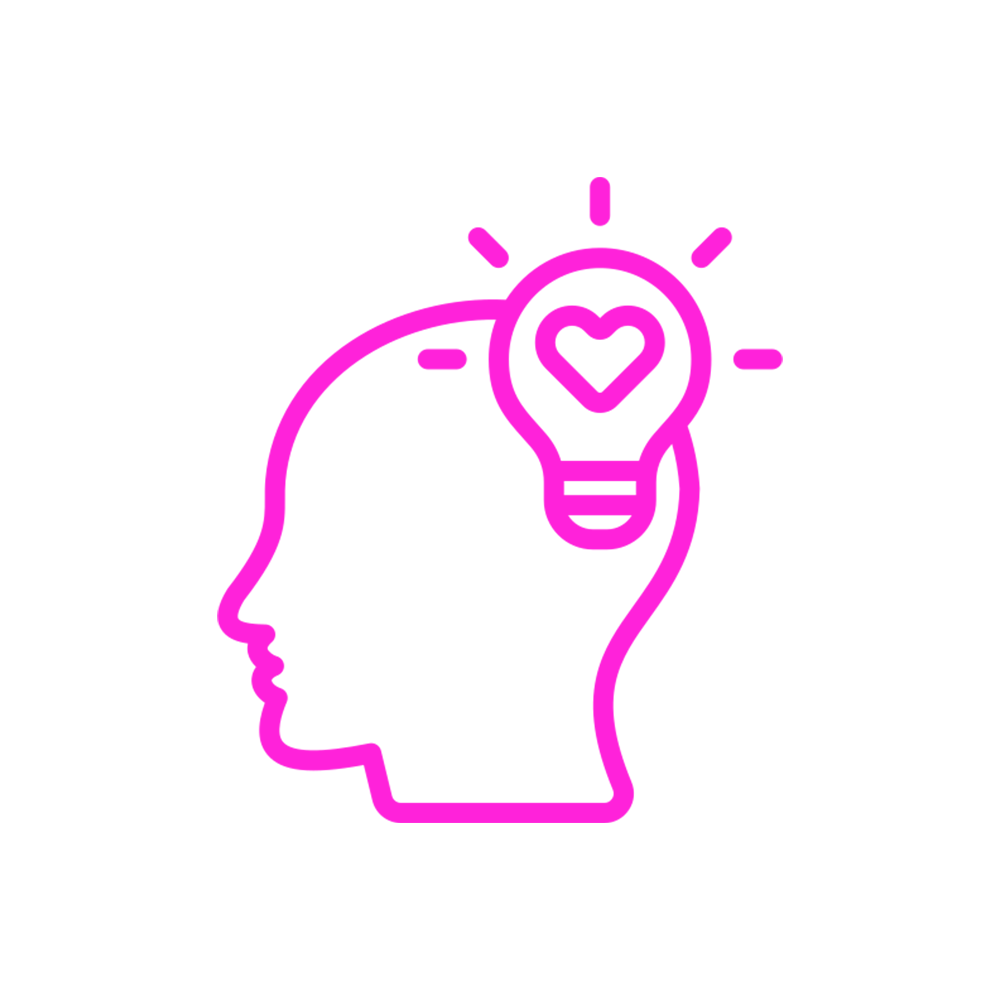
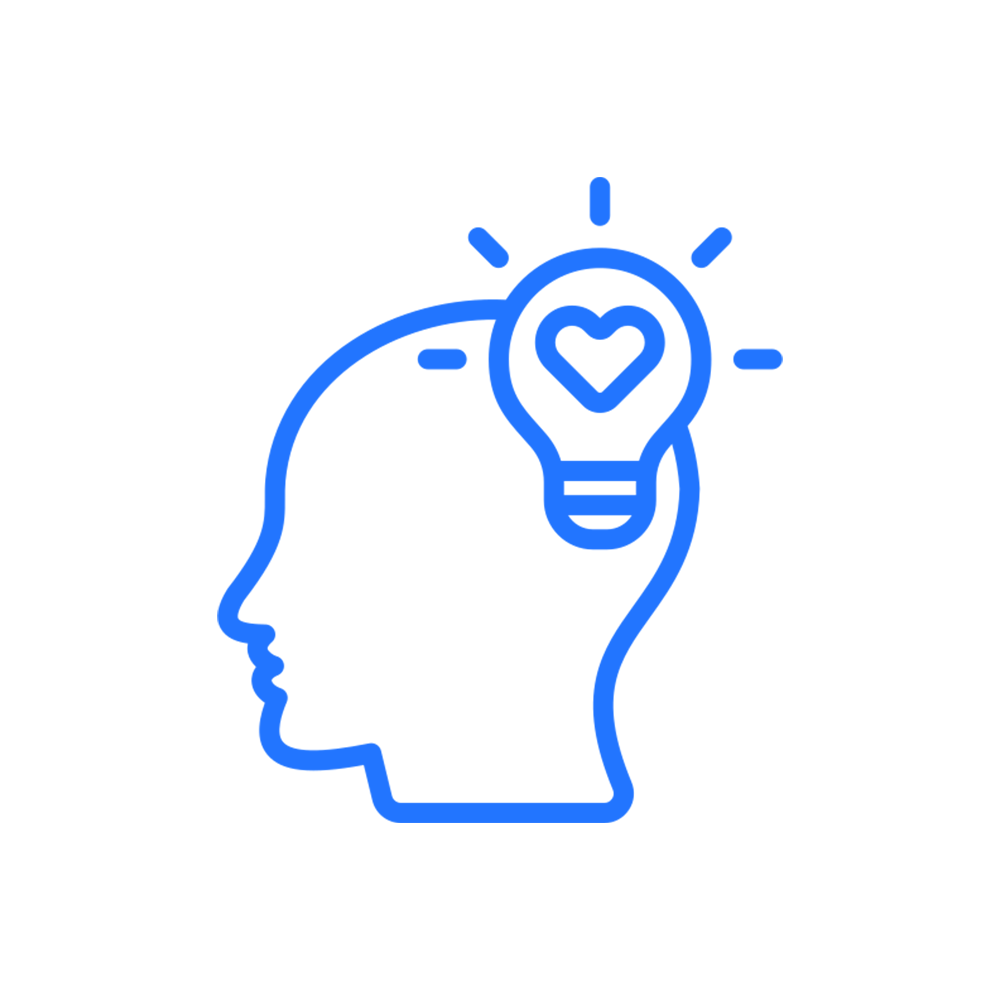
Switch pink for blue on white mode

Changed region(s): [[0.217, 0.155, 0.806, 0.837]]

diff --git a/src/components/AboutMe.vue b/src/components/AboutMe.vue
@@ -92,8 +92,8 @@ export default {
   data() {
     return {
       softSkills: false,
-      rosa: 'rgb(255, 34, 218)',
-      rosaEscuro: 'rgb(255, 34, 218, 0.5)',
+      branco: 'rgb(34, 133, 255)',
+      brancoEscuro: 'rgba(34, 133, 255, 0.5)',
       azul: 'rgba(47, 203, 205, 0.6)',
       azulEscuro: 'rgb(47, 203, 205, 0.3)',
       barra: 0,
@@ -118,8 +118,8 @@ export default {
           {
             label: 'Skill level',
             data: [], // Níveis de habilidade
-            backgroundColor: this.isDarkMode ? this.azulEscuro : this.azul, // Cor das barras baseada no modo
-            borderColor: this.isDarkMode ? this.azul : this.azul,
+            backgroundColor: this.isDarkMode ? this.azulEscuro : this.brancoEscuro, // Cor das barras baseada no modo
+            borderColor: this.isDarkMode ? this.azul : this.branco,
             borderWidth: 1,
             barThickness: 38, // Aumenta a espessura das barras
             categoryPercentage: 1, // Aumenta o espaçamento entre as barras
@@ -156,8 +156,8 @@ export default {
   methods: {
     updateChartColors(isDarkMode) {
       // Atualiza as cores das barras dinamicamente
-      this.chartData.datasets[0].backgroundColor = isDarkMode ? this.azulEscuro : this.azul;
-      this.chartData.datasets[0].borderColor = isDarkMode ? this.azul : this.azul;
+      this.chartData.datasets[0].backgroundColor = isDarkMode ? this.azulEscuro : this.brancoEscuro;
+      this.chartData.datasets[0].borderColor = isDarkMode ? this.azul : this.branco;
       this.chartData.datasets[0].borderWidth = 2;
     }
   },
@@ -168,8 +168,8 @@ export default {
       datasets: [
         {
           label: 'Skill level',
-          backgroundColor: this.isDarkMode ? this.azulEscuro : this.azul, // Cor das barras baseada no modo
-          borderColor: this.isDarkMode ? this.azul : this.azul,
+          backgroundColor: this.isDarkMode ? this.azulEscuro : this.brancoEscuro, // Cor das barras baseada no modo
+          borderColor: this.isDarkMode ? this.azul : this.branco,
           data: this.skills.map(skill => skill.level) // Níveis de habilidade
         }
       ]

diff --git a/src/assets/main.css b/src/assets/main.css
@@ -1,4 +1,4 @@
-/* White:: rgb(255, 34, 218) #ff22da               || Black::         rgb(47, 203, 205) #2fcbd5 */
+/* White:: rgb(34, 133, 255) #2275ff               || Black::         rgb(47, 203, 205) #2fcbd5 */
 
 /*-------------------------------------------------------------------------------------------------*/
 /*                                          PROJECTS VIEW                                          */
@@ -47,13 +47,13 @@
 
 .carousel-control-prev-icon,
 .carousel-control-next-icon {
-    background-color: rgb(255, 34, 218); /* Cor padrão */
+    background-color: rgb(34, 255, 255); /* Cor padrão */
     transition: background-color 0.3s ease; /* Transição suave */
 }
 
 .carousel-control-prev-icon:hover,
 .carousel-control-next-icon:hover {
-    background-color: rgb(255, 0, 212); /* Nova cor ao passar o mouse */
+    background-color: rgb(34, 133, 255); /* Nova cor ao passar o mouse */
 }
 
 .dark-mode .carousel-control-prev-icon,
@@ -83,7 +83,7 @@
 .contact-ball {
     width: 60px;
     height: 60px;
-    background-color: rgb(255, 34, 218);
+    background-color: rgb(34, 133, 255);
     border-radius: 50%;
     display: flex;
     align-items: center;
@@ -125,7 +125,7 @@
 }
 
 .contact-option:hover {
-    background-color: rgb(255, 34, 218)
+    background-color: rgb(34, 133, 255)
 }
 
 .dark-mode .contact-option,
@@ -434,7 +434,7 @@ html {
 }
 
 .botao.active {
-    background-color: rgb(255, 34, 218);
+    background-color: rgb(34, 133, 255);
     color: #fff;
 }
 
@@ -471,7 +471,7 @@ p {
 
 h1,
 h3 {
-    color: rgb(255, 34, 218);
+    color: rgb(34, 133, 255);
 }
 
 .dark-mode h1,

diff --git a/src/components/Header.vue b/src/components/Header.vue
@@ -13,7 +13,7 @@
                 <p :key="$i18n.locale">{{ $t('services') }}</p>
             </button>
             <div class="vertical-divider"></div>
-            <button class="botao" :class="{ active: currentView === 'Certificates' }" @click="changeView('Certificates')">
+            <button v-if="showCertificates" class="botao" :class="{ active: currentView === 'Certificates' }" @click="changeView('Certificates')">
                 <p :key="$i18n.locale">{{ $t('certificates') }}</p>
             </button>
             <div class="vertical-divider"></div>
@@ -63,6 +63,11 @@
 import { mapState, mapMutations } from 'vuex';
 
 export default {
+    data() {
+        return {
+            showCertificates: false
+        }
+    },
     name: 'AppHeader',
     props: {
         isDarkMode: {

diff --git a/src/components/FloatingContacts.vue b/src/components/FloatingContacts.vue
@@ -116,7 +116,7 @@
   .contact-ball {
     width: 60px;
     height: 60px;
-    background-color: rgb(255, 34, 218);
+    background-color: rgb(34, 133, 255);
     border-radius: 50%;
     display: flex;
     align-items: center;
@@ -155,7 +155,7 @@
   }
   
   .contact-option:hover {
-    background-color: rgb(255, 34, 218)
+    background-color: rgb(34, 133, 255)
   }
 
   .dark-mode .contact-option, .dark-mode  .contact-ball {
